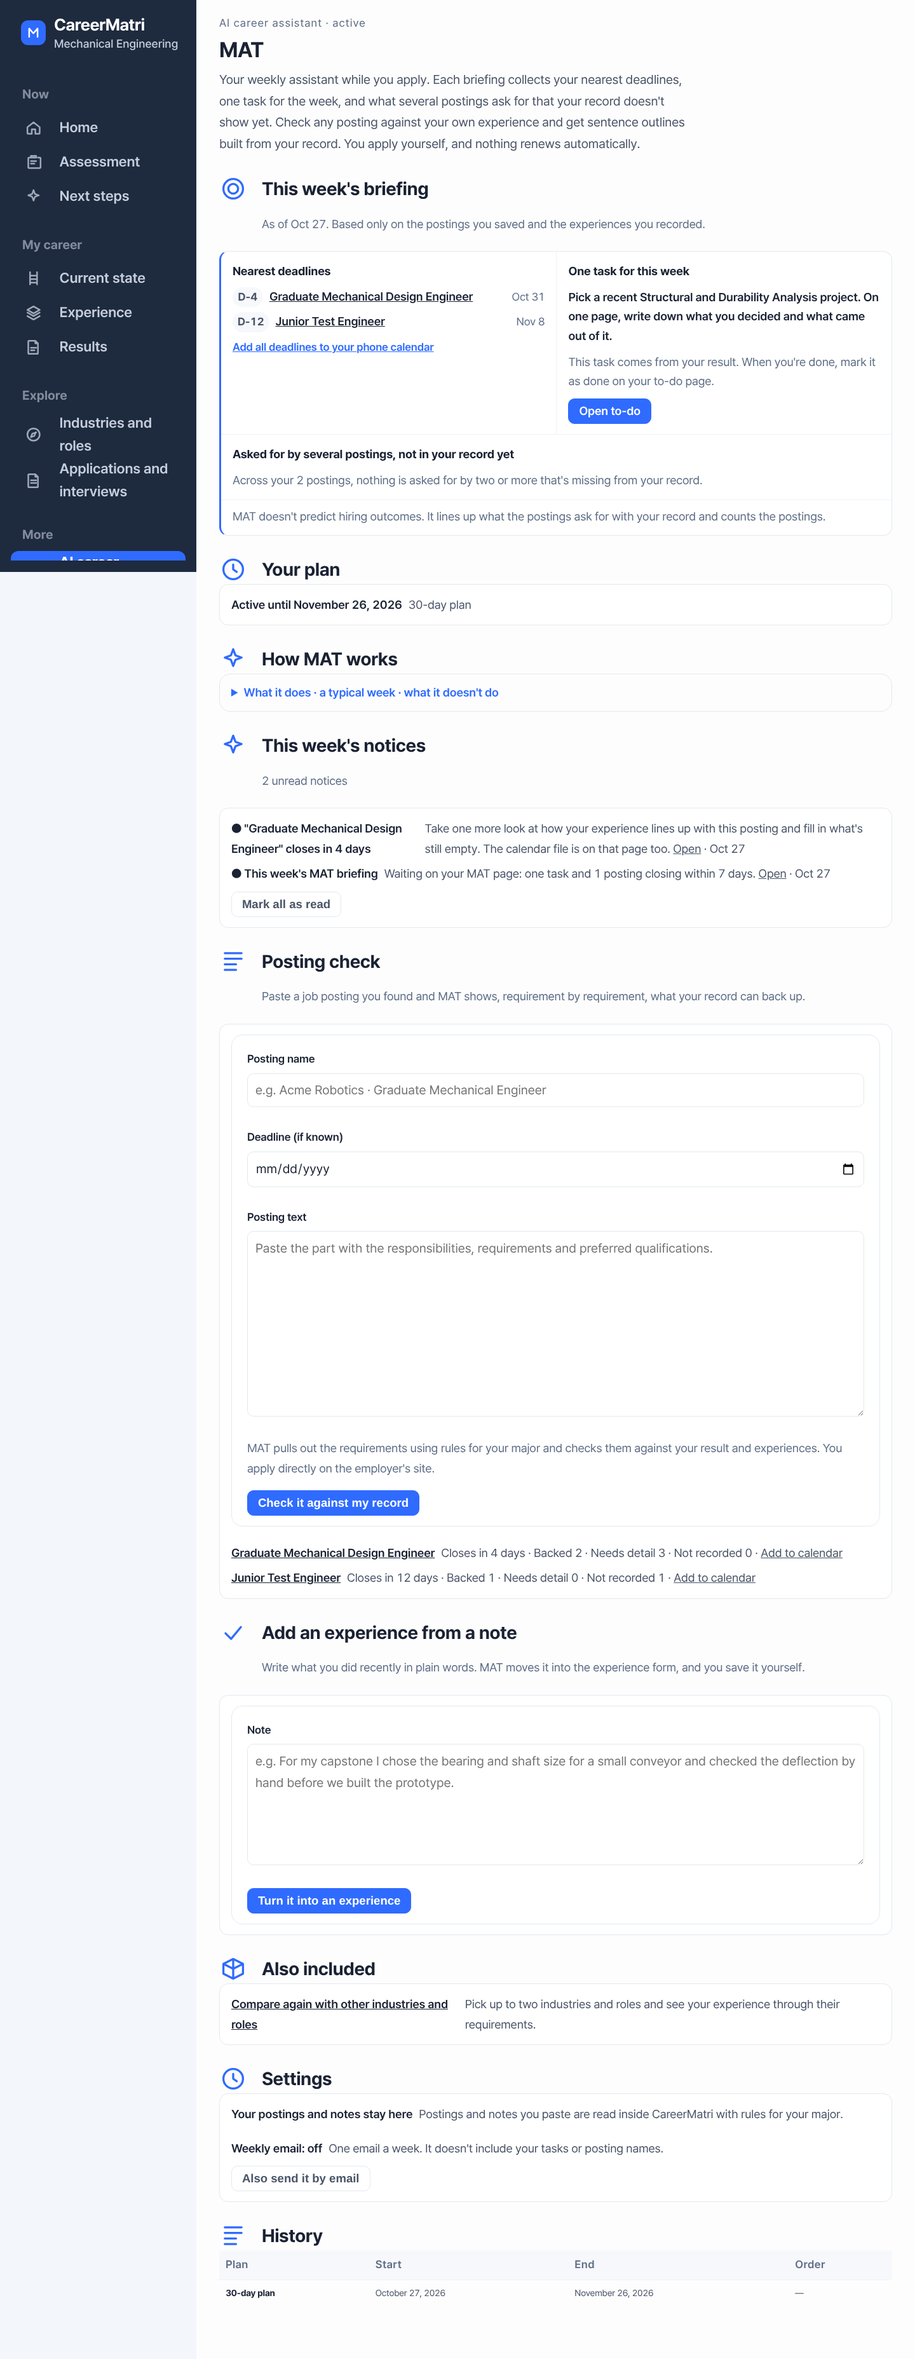
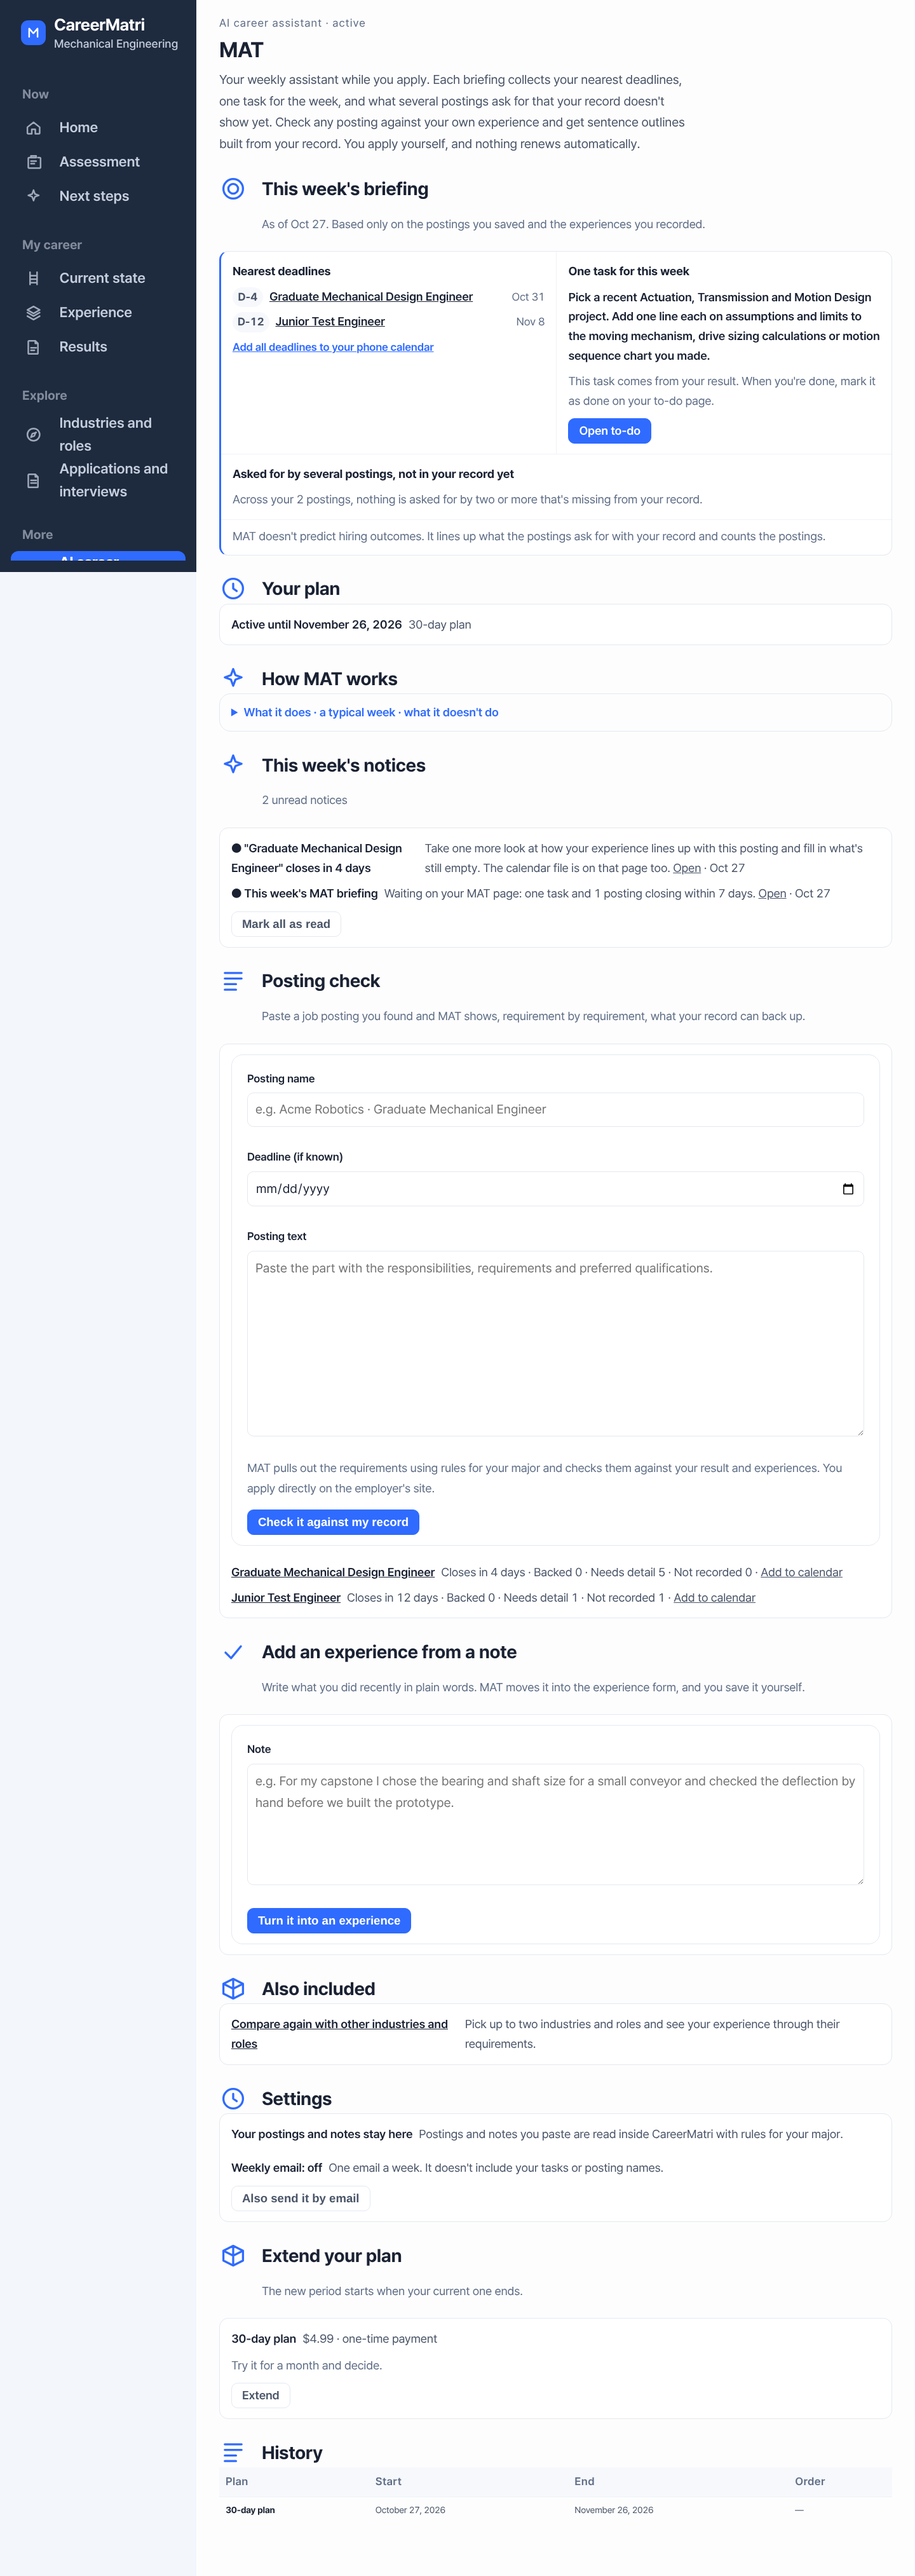
Set overseas MAT 30-day pass to $4.99 and lock dollar products to overseas cards
- TRACK_30D_GL: 499 USD, approved (owner decision 2026-10-27). 365-day stays unpriced.
- db:upgrade fills the price only on rows still not approved.
- Checkout: USD products can only be paid by overseas card (form and server).
- Homepage (en): one 30-day card at $4.99.
- English MAT weekly task now reads the result model in English, so artifact names no longer leak Korean.

Claude-Session: https://claude.ai/code/session_01UxHL1137ELFGmLKsptQpS2

diff --git a/pca-platform/marketing/src/content/en.ts b/pca-platform/marketing/src/content/en.ts
@@ -1,5 +1,5 @@
 import { PLATFORM_URL, HOME_DOMAIN } from "@/lib/domains";
-import { TRACK_KR, krw } from "@/lib/prices";
+import { TRACK_GL } from "@/lib/prices";
 import type { SiteContent } from "./model";
 
 /**
@@ -470,7 +470,7 @@ export const en: SiteContent = {
           tag: "Subscription",
           title: "MAT · AI career assistant",
           body: "After the assessment, it keeps track of your weekly tasks and deadlines and puts saved job postings side by side with your experience.",
-          price: `30-day pass ${krw(TRACK_KR.month.price)} · 365-day pass ${krw(TRACK_KR.year.price)}`,
+          price: `${TRACK_GL.month.name} ${TRACK_GL.month.price}`,
           priceNote: "No automatic renewal",
           points: [
             "Your pass simply ends when the period is over, with no further charges",
@@ -632,7 +632,7 @@ export const en: SiteContent = {
   assistant: {
     meta: {
       title: "MAT · AI career assistant | CareerMatri",
-      description: `MAT is CareerMatri's AI career assistant. After the assessment, it keeps track of your weekly tasks and deadlines and compares job postings you find with your own experience. 30-day pass ${krw(TRACK_KR.month.price)}, 365-day pass ${krw(TRACK_KR.year.price)}.`,
+      description: `MAT is CareerMatri's AI career assistant. After the assessment, it keeps track of your weekly tasks and deadlines and compares job postings you find with your own experience. ${TRACK_GL.month.name} ${TRACK_GL.month.price}.`,
     },
     hero: {
       eyebrow: "Subscription",
@@ -661,19 +661,12 @@ export const en: SiteContent = {
       lead: "Passes do not renew automatically. Yours simply ends when the period is over, and you are not charged again.",
       items: [
         {
-          name: "30-day pass",
-          price: krw(TRACK_KR.month.price),
+          name: TRACK_GL.month.name,
+          price: TRACK_GL.month.price,
           unit: "30 days of access",
-          body: "Try it for a month and then decide whether to continue.",
-          cta: { label: "Start with the 30-day pass", href: "/me/track" },
-        },
-        {
-          name: "365-day pass",
-          price: krw(TRACK_KR.year.price),
-          unit: "365 days of access",
-          body: "Costs less than buying the 30-day pass twelve times. A good fit if you want to keep preparing through a whole school year.",
+          body: "Try it for a month and then decide whether to continue. Start with the free assessment first, since MAT works from your result.",
           featured: true,
-          cta: { label: "Start with the 365-day pass", href: "/me/track" },
+          cta: { label: "Start with the 30-day pass", href: "/me/track" },
         },
       ],
       notes: [
@@ -688,7 +681,7 @@ export const en: SiteContent = {
       items: [
         {
           q: "Will I be charged automatically every month?",
-          a: "No. Both the 30-day and 365-day passes are paid once and end on their own when the period is over.",
+          a: "No. The 30-day pass is paid once and ends on its own when the period is over.",
         },
         {
           q: "I bought a PRO report. How do I get the free month?",

diff --git a/pca-platform/src/app/checkout/checkout-form.tsx b/pca-platform/src/app/checkout/checkout-form.tsx
@@ -27,6 +27,7 @@ export default function CheckoutForm({
   upgradesAttemptId,
   provider,
   globalReady,
+  foreignOnly = false,
   lang,
 }: {
   productCode: string;
@@ -35,6 +36,12 @@ export default function CheckoutForm({
   provider: string;
   /** 해외 카드 채널이 설정돼 있는가. 없으면 선택지를 열지 않는다 */
   globalReady: boolean;
+  /**
+   * 원화가 아닌 상품(해외판 MAT, 달러). **국내 카드로는 낼 수 없다**: 국내 채널은
+   * 원화만 받아서, 그쪽으로 보내면 결제창에서 실패한다. 해외 카드만 열고, 그
+   * 채널이 아직 없으면 결제 단추를 끈다(`payGlobalOff` 가 까닭을 적는다)
+   */
+  foreignOnly?: boolean;
   lang: Lang;
 }) {
   const [state, action, pending] = useActionState<CheckoutState, FormData>(createOrderAction, {});
@@ -116,14 +123,16 @@ export default function CheckoutForm({
       <fieldset className="paymethod">
         <legend>{t("payMethodLabel", lang)}</legend>
         <label>
-          <input type="radio" name="region" value="domestic" defaultChecked />
+          <input type="radio" name="region" value="domestic"
+            defaultChecked={!foreignOnly} disabled={foreignOnly} />
           <span>
             <b>{t("payDomestic", lang)}</b>
             <em>{t("payDomesticNote", lang)}</em>
           </span>
         </label>
         <label className={globalReady ? undefined : "off"}>
-          <input type="radio" name="region" value="global" disabled={!globalReady} />
+          <input type="radio" name="region" value="global" disabled={!globalReady}
+            defaultChecked={foreignOnly && globalReady} />
           <span>
             <b>{t("payGlobal", lang)}</b>
             <em>{globalReady ? t("payGlobalNote", lang) : t("payGlobalOff", lang)}</em>
@@ -133,7 +142,8 @@ export default function CheckoutForm({
 
       {state.error ? <p className="err">{state.error}</p> : null}
       {sdkError ? <p className="err">{sdkError}</p> : null}
-      <button className="act solid full" type="submit" disabled={pending || launching}>
+      <button className="act solid full" type="submit"
+        disabled={pending || launching || (foreignOnly && !globalReady)}>
         {pending || launching ? t("payOpening", lang) : t("payGo", lang)}
       </button>
     </form>

diff --git a/pca-platform/scripts/mat-en-shots.ts b/pca-platform/scripts/mat-en-shots.ts
@@ -117,9 +117,21 @@ async function main(): Promise<void> {
       const h = hangul(txt);
       ok(`[${name}] MAT 화면에 한글이 없다`, !h, h ?? "");
       ok(`[${name}] AI 동의 칸이 서지 않는다`, !/Anthropic/.test(txt));
-      ok(`[${name}] 0원 사는 단추가 없다`, (await p.locator('a[href^="/checkout?product=TRACK_"]').count()) === 0);
+      /* 해외판 30일권 $4.99(2026-10-27 사업주 결정). 365일권은 해외 값이 없어 서지 않는다 */
+      ok(`[${name}] 해외판 30일권만 $4.99 로 선다`,
+        (await p.locator('a[href="/checkout?product=TRACK_30D_GL"]').count()) === 1
+          && (await p.locator('a[href*="TRACK_365D_GL"], a[href="/checkout?product=TRACK_30D"]').count()) === 0
+          && /\$4\.99/.test(txt));
       ok(`[${name}] 가로 스크롤이 없다`, (await sx(p)) <= 0, String(await sx(p)));
       await p.screenshot({ path: `${OUT}/en-track__${name}.png`, fullPage: true });
+      if (name === "desktop") {
+        /* 결제 화면: 달러 상품은 해외 카드만 고를 수 있다 */
+        await p.goto(`${BASE}/checkout?product=TRACK_30D_GL`, { waitUntil: "networkidle" });
+        const dom = p.locator('input[name="region"][value="domestic"]');
+        ok("달러 상품은 국내 카드를 고를 수 없다", await dom.isDisabled());
+        ok("결제 화면에 $4.99 가 선다", /\$4\.99/.test(await p.locator("main").innerText()));
+        await p.screenshot({ path: `${OUT}/en-checkout__desktop.png`, fullPage: true });
+      }
       await ctx.close();
     }
 

diff --git a/pca-platform/src/app/me/track/page.tsx b/pca-platform/src/app/me/track/page.tsx
@@ -6,6 +6,7 @@ import { activeMajorName } from "@/lib/me-v3/major-name";
 import { coreIfAny } from "@/lib/me-v3/platform";
 import { domainName, majorNameIn } from "@/lib/me-v3/runtime/session";
 import { textFor } from "@/lib/me-v3/result/text";
+import { localizeResult } from "@/lib/me-v3/result/localize";
 import { getProduct } from "@/lib/orders";
 import { formatMoney } from "@/lib/money";
 import {
@@ -129,7 +130,9 @@ export default async function Track({
      할 일을 찾아 영어 문장으로 적고, 못 찾으면 담긴 문장을 그대로 둔다 */
   if (en && brief?.task && open?.model) {
     const row = (open.rows ?? []).find((r) => r.body === brief.task!.body);
-    const model = open.model;
+    /* 굳은 결과는 한국어 원고로 들어 있다. 할 일의 재료(결과물 이름 · 비교 대상)도
+       그래서 한국어라, `/me/next` 처럼 모델을 먼저 영어로 읽어 넘긴다 */
+    const model = core ? localizeResult(open.model, core, "en") : open.model;
     const x = row ? model.actions.find((a) =>
       (a.domain ?? "") === (row.td_code ?? "") && (a.axis ?? "") === (row.axis_code ?? "")) : null;
     if (x && core) {

diff --git a/pca-platform/marketing/src/lib/prices.ts b/pca-platform/marketing/src/lib/prices.ts
@@ -54,6 +54,16 @@ export const TRACK_KR = {
   year: { name: "365일권", price: "39,000원" },
 } as const;
 
+/**
+ * 해외판 MAT(영어 작업공간). 정본은 `db/schema_track_global.sql` 의
+ * `TRACK_30D_GL` 이다(2026-10-27 사업주 결정 · 30일 4.99달러). 365일권은
+ * 해외 값이 정해지지 않아 영어 홈페이지에 적지 않는다. **환율로 어림하지
+ * 않는다**: 이 값은 달러로 실제 결제되는 값이다(`fx.ts` 는 `$` 를 건드리지 않는다)
+ */
+export const TRACK_GL = {
+  month: { name: "30-day pass", price: "$4.99" },
+} as const;
+
 /** 값을 한 줄로 늘어놓는다 (`무료 · 14,900원 · 21,900원`) */
 export function priceRange(tiers: TierPrice[]): string {
   return tiers.map((t) => t.price).join(" · ");

diff --git a/pca-platform/src/lib/orders.ts b/pca-platform/src/lib/orders.ts
@@ -103,6 +103,10 @@ export async function startCheckout(
   /* **값이 승인되지 않은 상품은 주문을 만들지 않는다.** 0원으로 줄만 세워
      둔 해외판 MAT 이 그렇다: 그대로 두면 0원 결제로 기간이 열린다 */
   if (product.price_status !== "approved") throw new Error("아직 값이 정해지지 않은 상품입니다.");
+  /* 원화가 아닌 상품은 해외 카드 채널로만 낸다. 국내 채널은 원화만 받는다 */
+  if (product.currency !== "KRW" && region !== "global") {
+    throw new Error("해외 카드로만 결제할 수 있는 상품입니다.");
+  }
   if (product.kind === "track") {
     const { hasV3Result } = await import("@/lib/track");
     if (!(await hasV3Result(userId))) {

diff --git a/pca-platform/src/app/checkout/page.tsx b/pca-platform/src/app/checkout/page.tsx
@@ -94,6 +94,7 @@ export default async function CheckoutPage({
           upgradesAttemptId={attempt}
           provider={provider}
           globalReady={globalReady}
+          foreignOnly={product.currency !== "KRW"}
           lang={lang}
         />
       </div>
